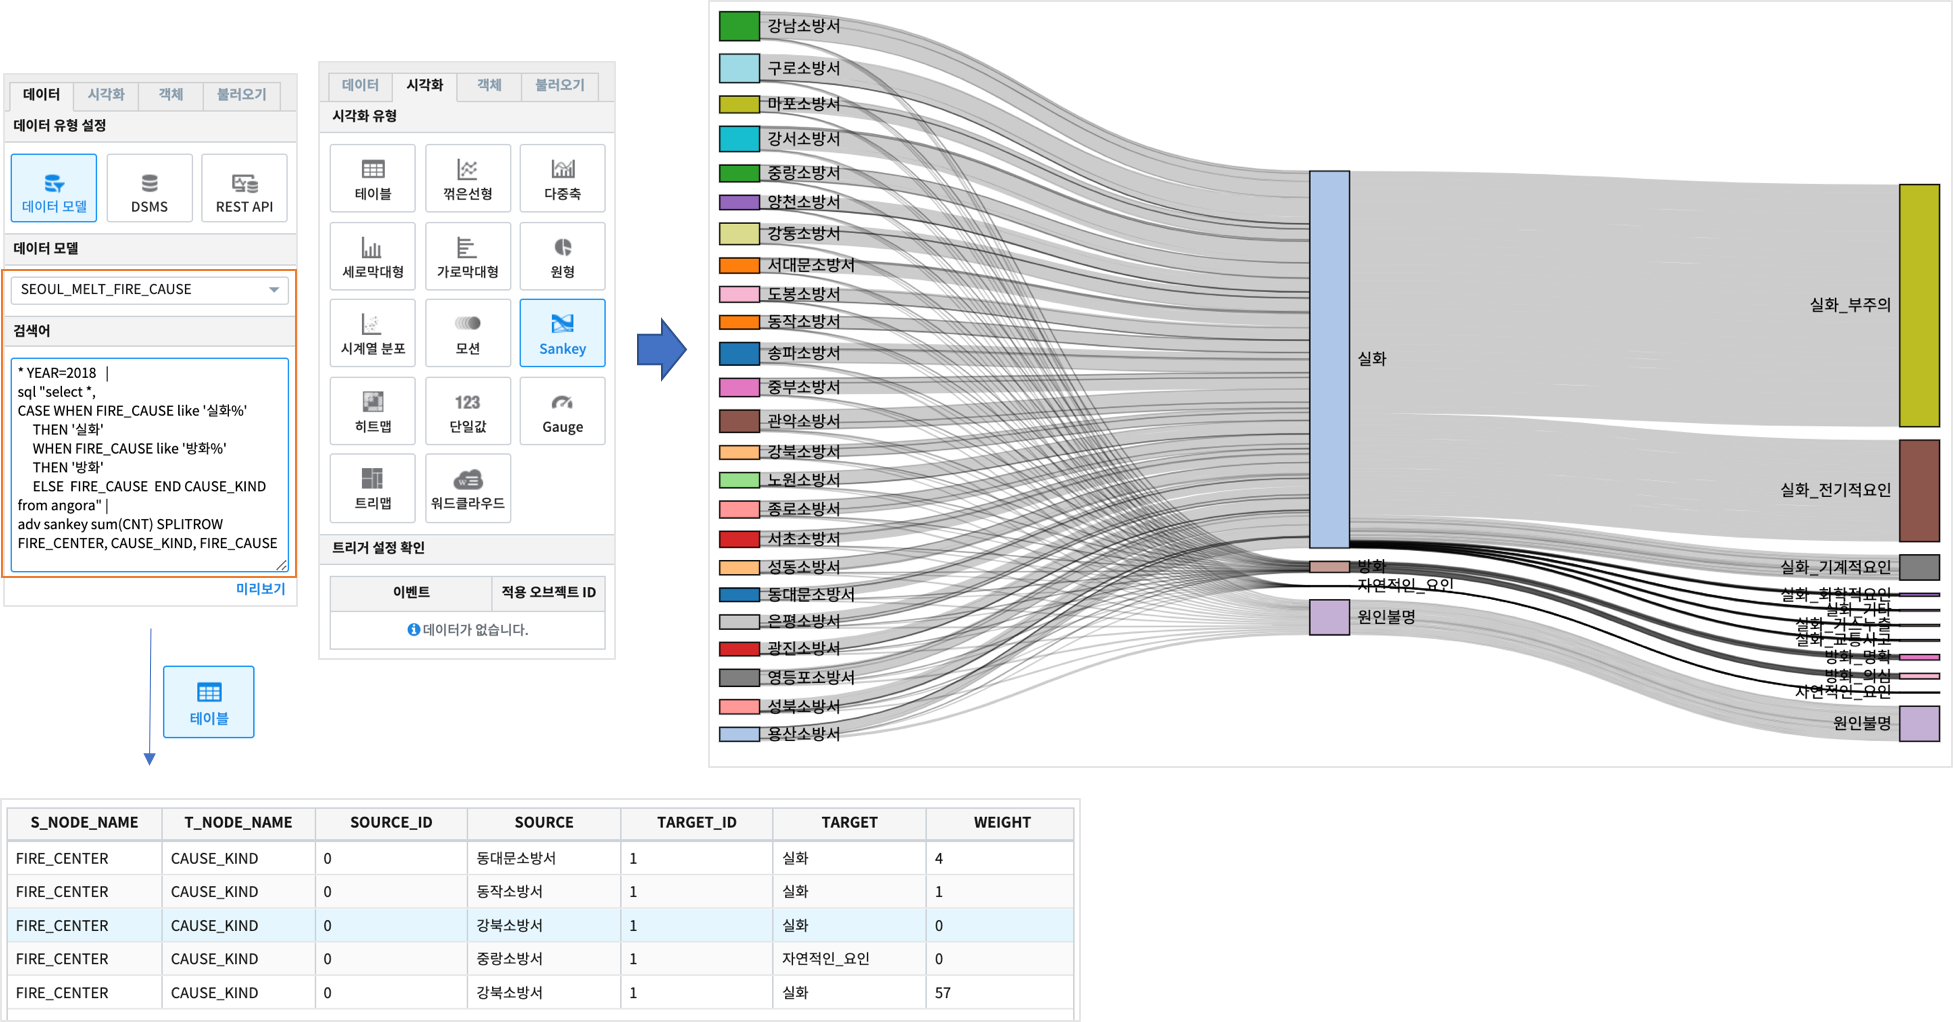
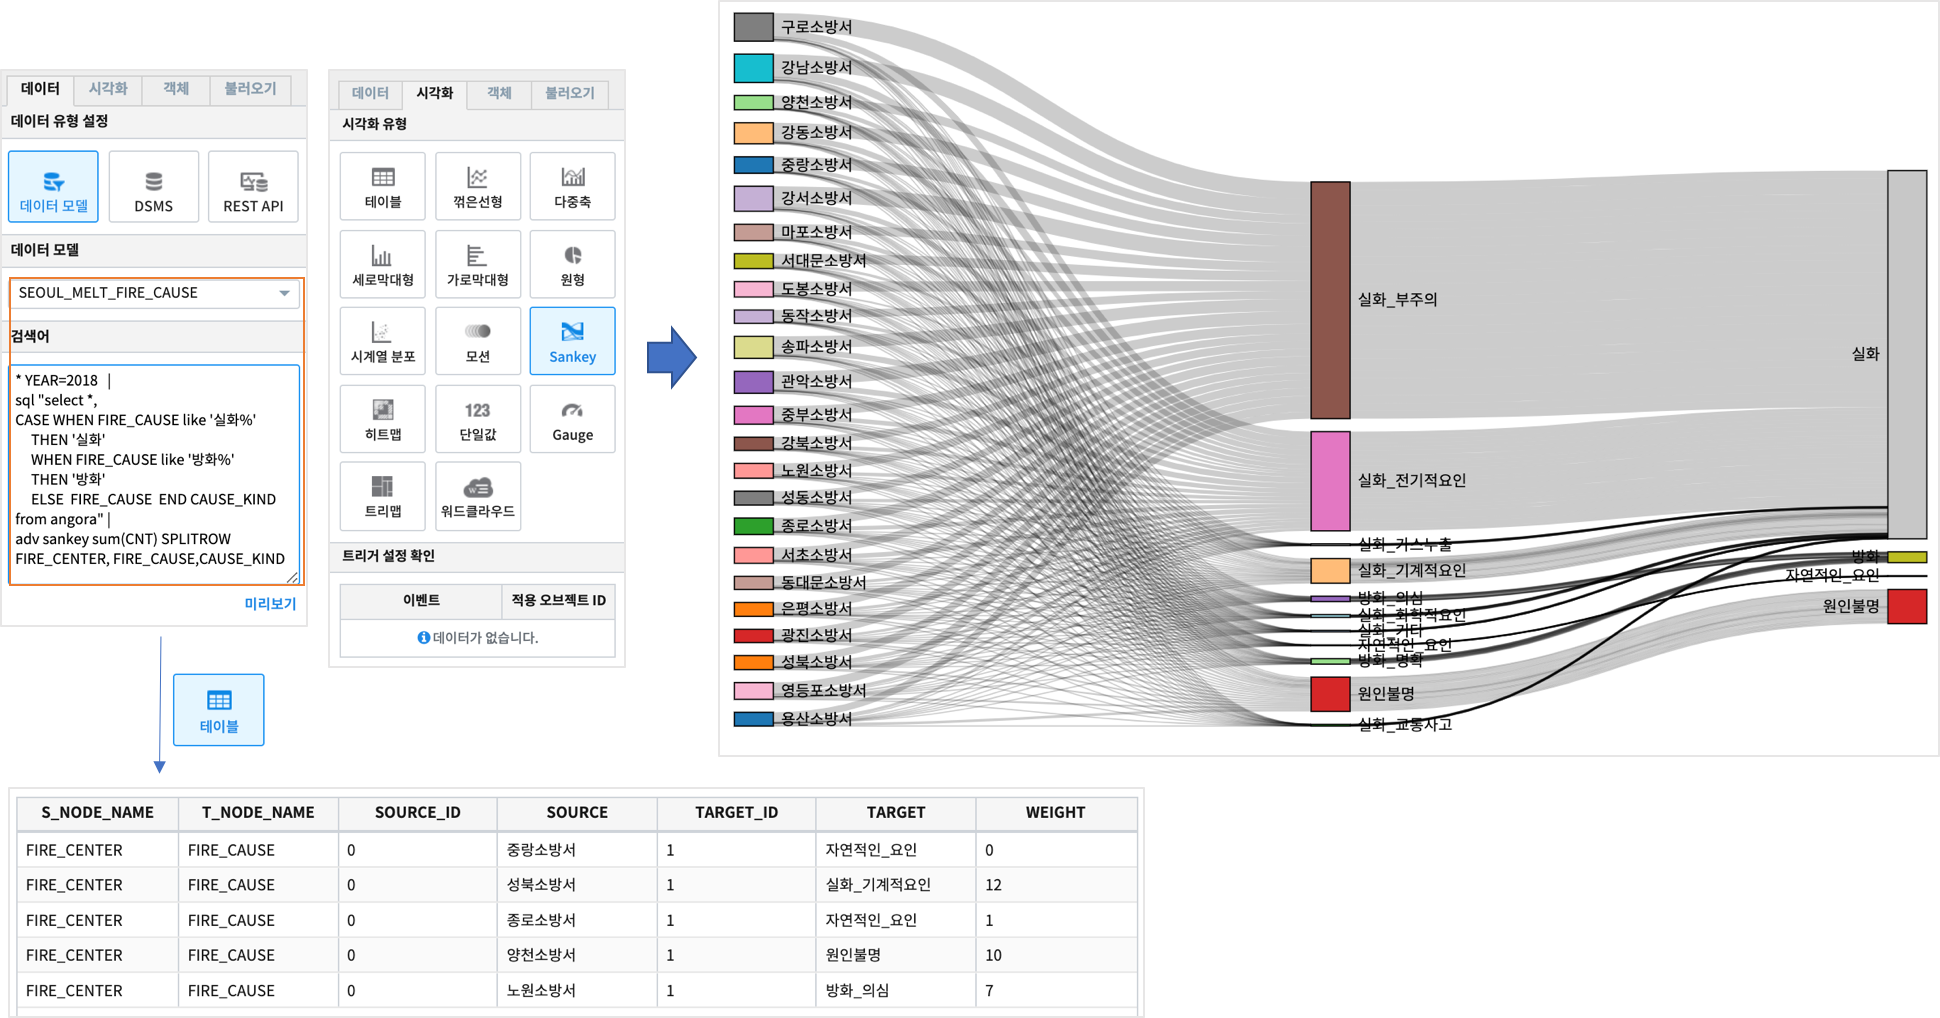
studio-chart sankey mod.

Changed region(s): [[0.0, 0.0, 1.0, 1.0]]

diff --git a/Studio-chart/studio_table_03.rst b/Studio-chart/studio_table_03.rst
@@ -71,7 +71,7 @@ Studio예제: 테이블과 검색어 3 (adv sankey)
                     ELSE  FIRE_CAUSE  
                END CAUSE_KIND  
         from angora" |
-    adv sankey sum(CNT) SPLITROW FIRE_CENTER, CAUSE_KIND, FIRE_CAUSE
+    adv sankey sum(CNT) SPLITROW FIRE_CENTER, FIRE_CAUSE, CAUSE_KIND
 
 
 
@@ -80,6 +80,9 @@ Studio예제: 테이블과 검색어 3 (adv sankey)
 | 자세한 설명 - 검색어 `adv <http://docs.iris.tools/manual/IRIS-Manual/IRIS-Discovery-Middleware/command/commands/adv.html>`__ 를 참조하세요.
 
 |
+
+| SPLITROW 뒤에 나오는 필드가 sankey챠트의 각 NODE이며, FIRE_CENTER -> FIRE_CAUSE -> CAUSE_KIND  로 flow 가 정해집니다.
+| 선의 굵기는 각 NODE -> NODE 일 때의 값을 의미하며, 여기서는 CNT의 합계입니다.
 
 .. image:: images/table_3_10.png
     :alt: table_3_10
